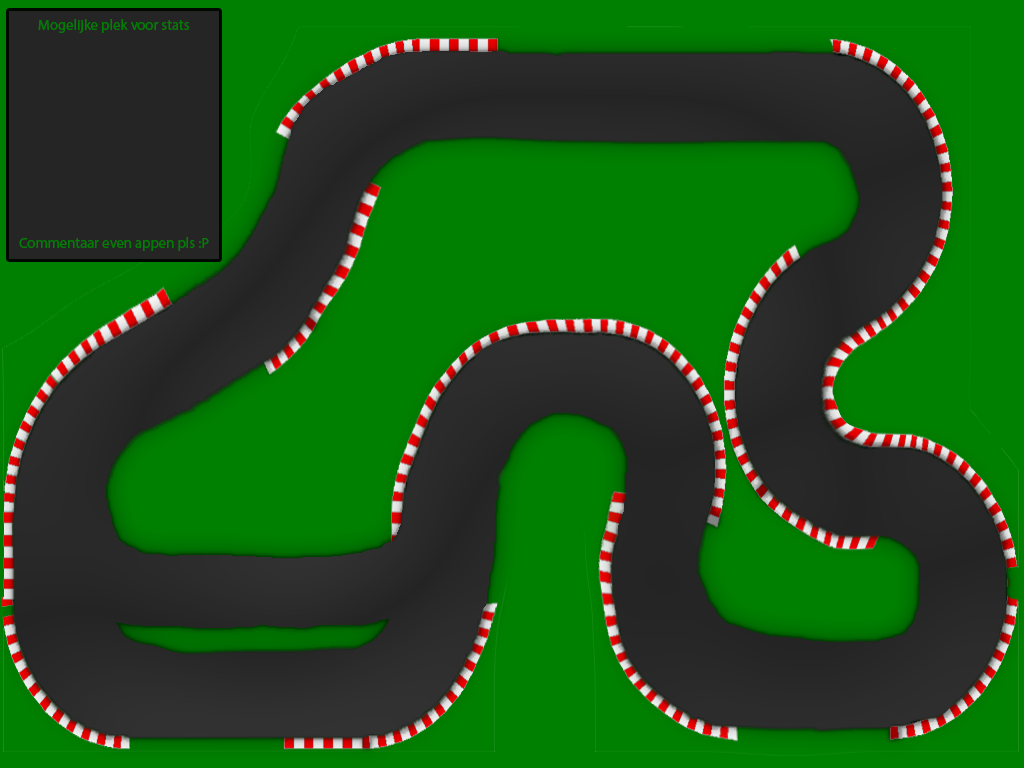
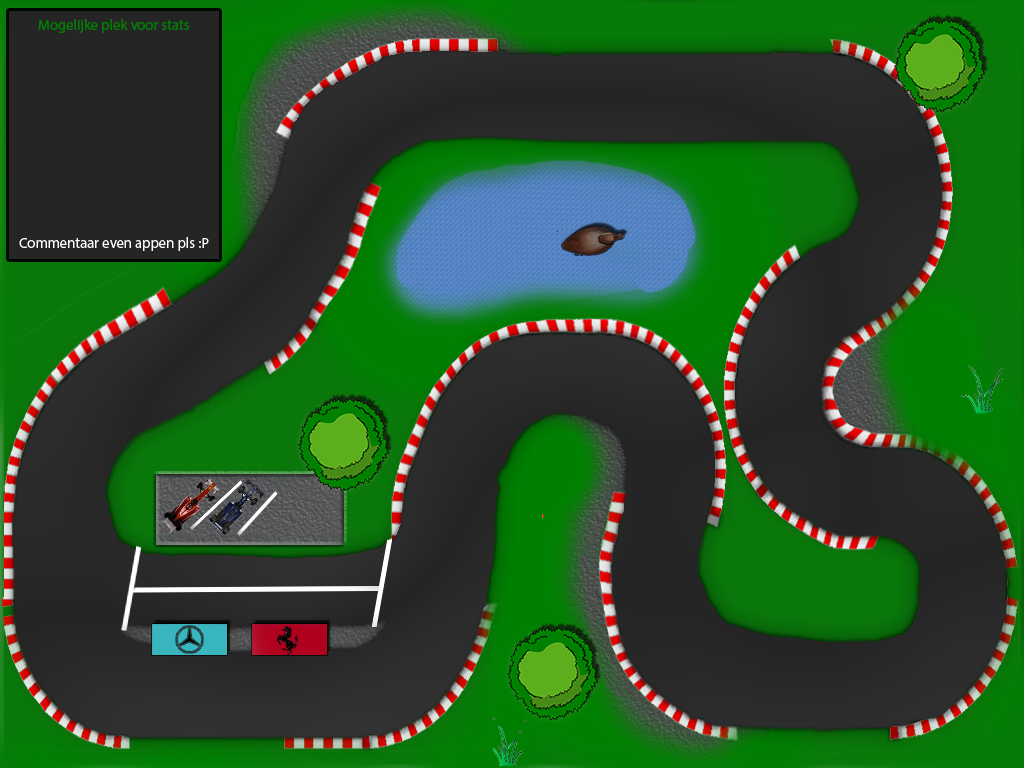
Versie 0.2

diff --git a/Racegame versie 0.1/RaceGameExample/Form1.Designer.cs b/Racegame versie 0.1/RaceGameExample/Form1.Designer.cs
@@ -37,7 +37,7 @@
             // 
             this.AutoScaleDimensions = new System.Drawing.SizeF(8F, 16F);
             this.AutoScaleMode = System.Windows.Forms.AutoScaleMode.Font;
-            this.BackgroundImage = global::RaceGameExample.Properties.Resources.Racebaan;
+            this.BackgroundImage = global::RaceGameExample.Properties.Resources.Racebaan1;
             this.ClientSize = new System.Drawing.Size(1006, 721);
             this.Margin = new System.Windows.Forms.Padding(4);
             this.Name = "formRaceGame";

diff --git a/Racegame versie 0.1/RaceGameExample/Properties/Resources.Designer.cs b/Racegame versie 0.1/RaceGameExample/Properties/Resources.Designer.cs
@@ -69,5 +69,15 @@ namespace RaceGameExample.Properties {
                 return ((System.Drawing.Bitmap)(obj));
             }
         }
+        
+        /// <summary>
+        ///   Looks up a localized resource of type System.Drawing.Bitmap.
+        /// </summary>
+        internal static System.Drawing.Bitmap Racebaan1 {
+            get {
+                object obj = ResourceManager.GetObject("Racebaan1", resourceCulture);
+                return ((System.Drawing.Bitmap)(obj));
+            }
+        }
     }
 }
